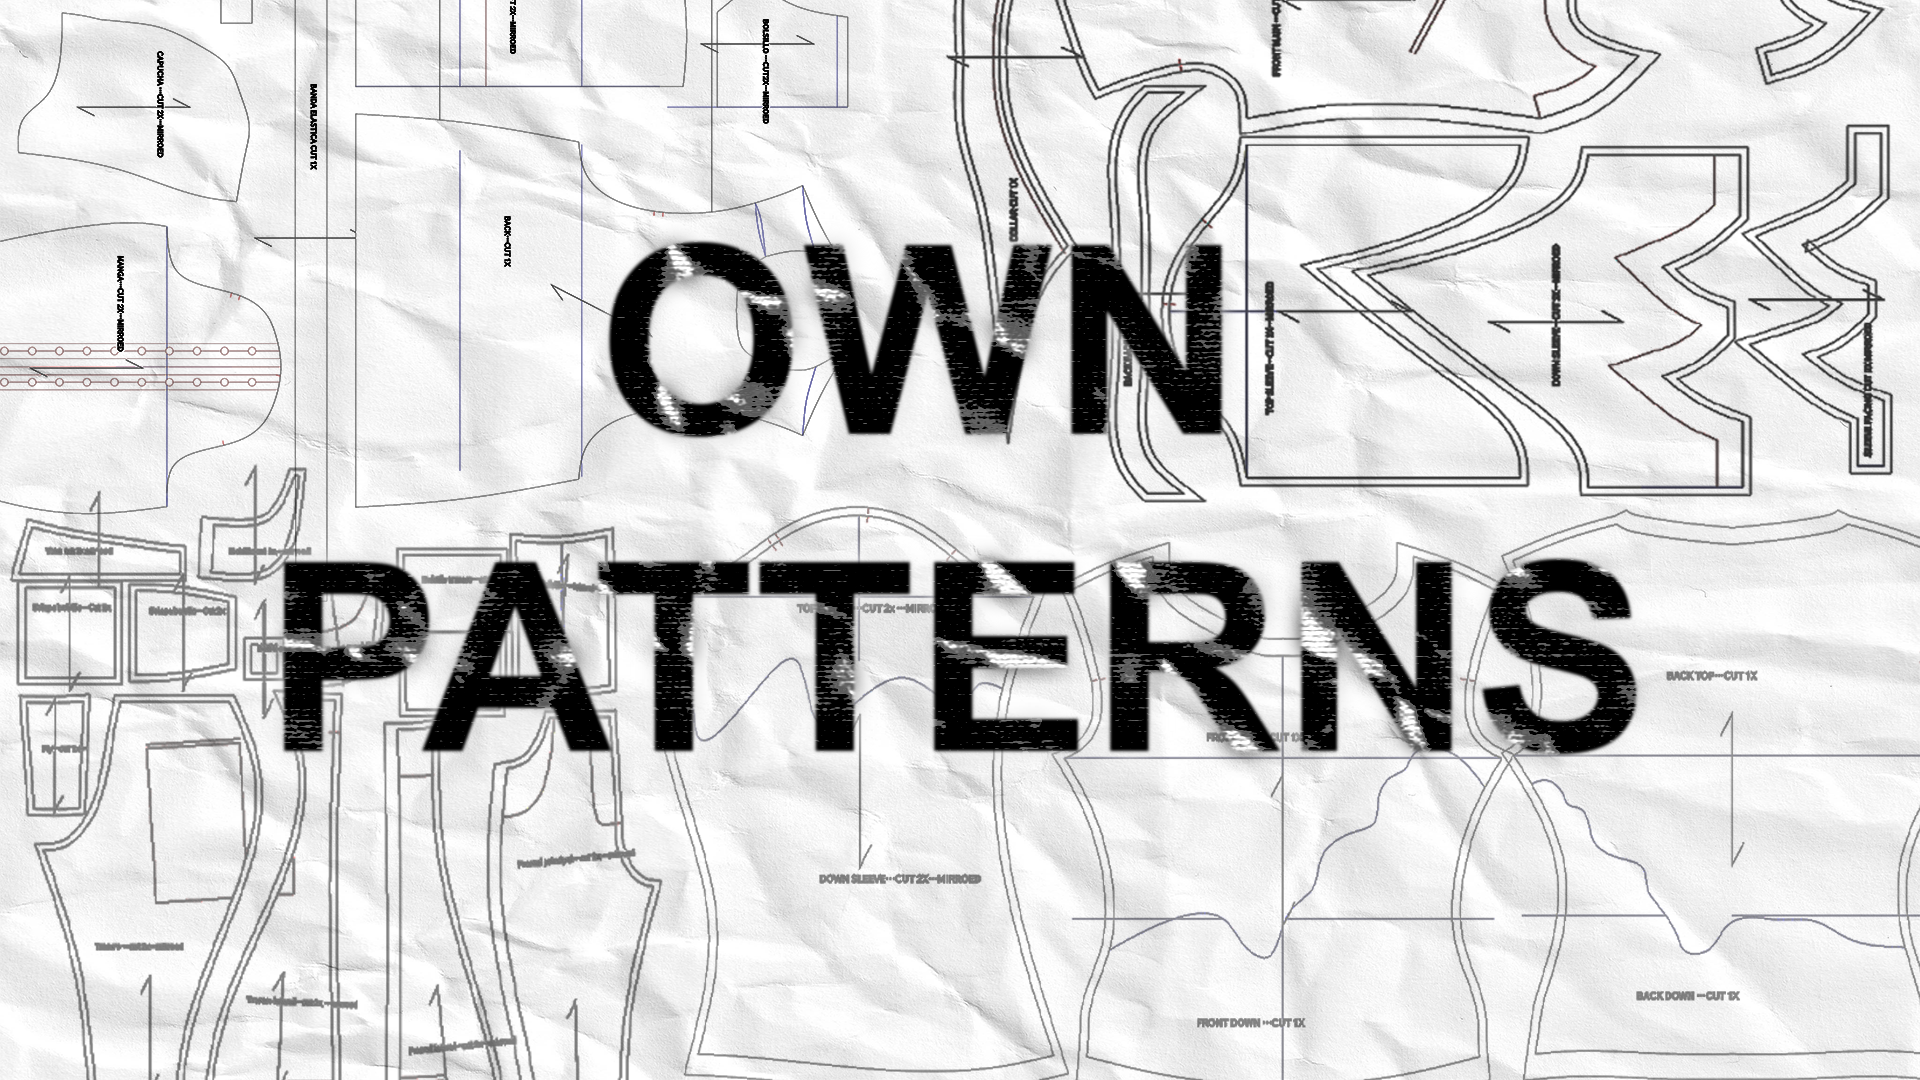
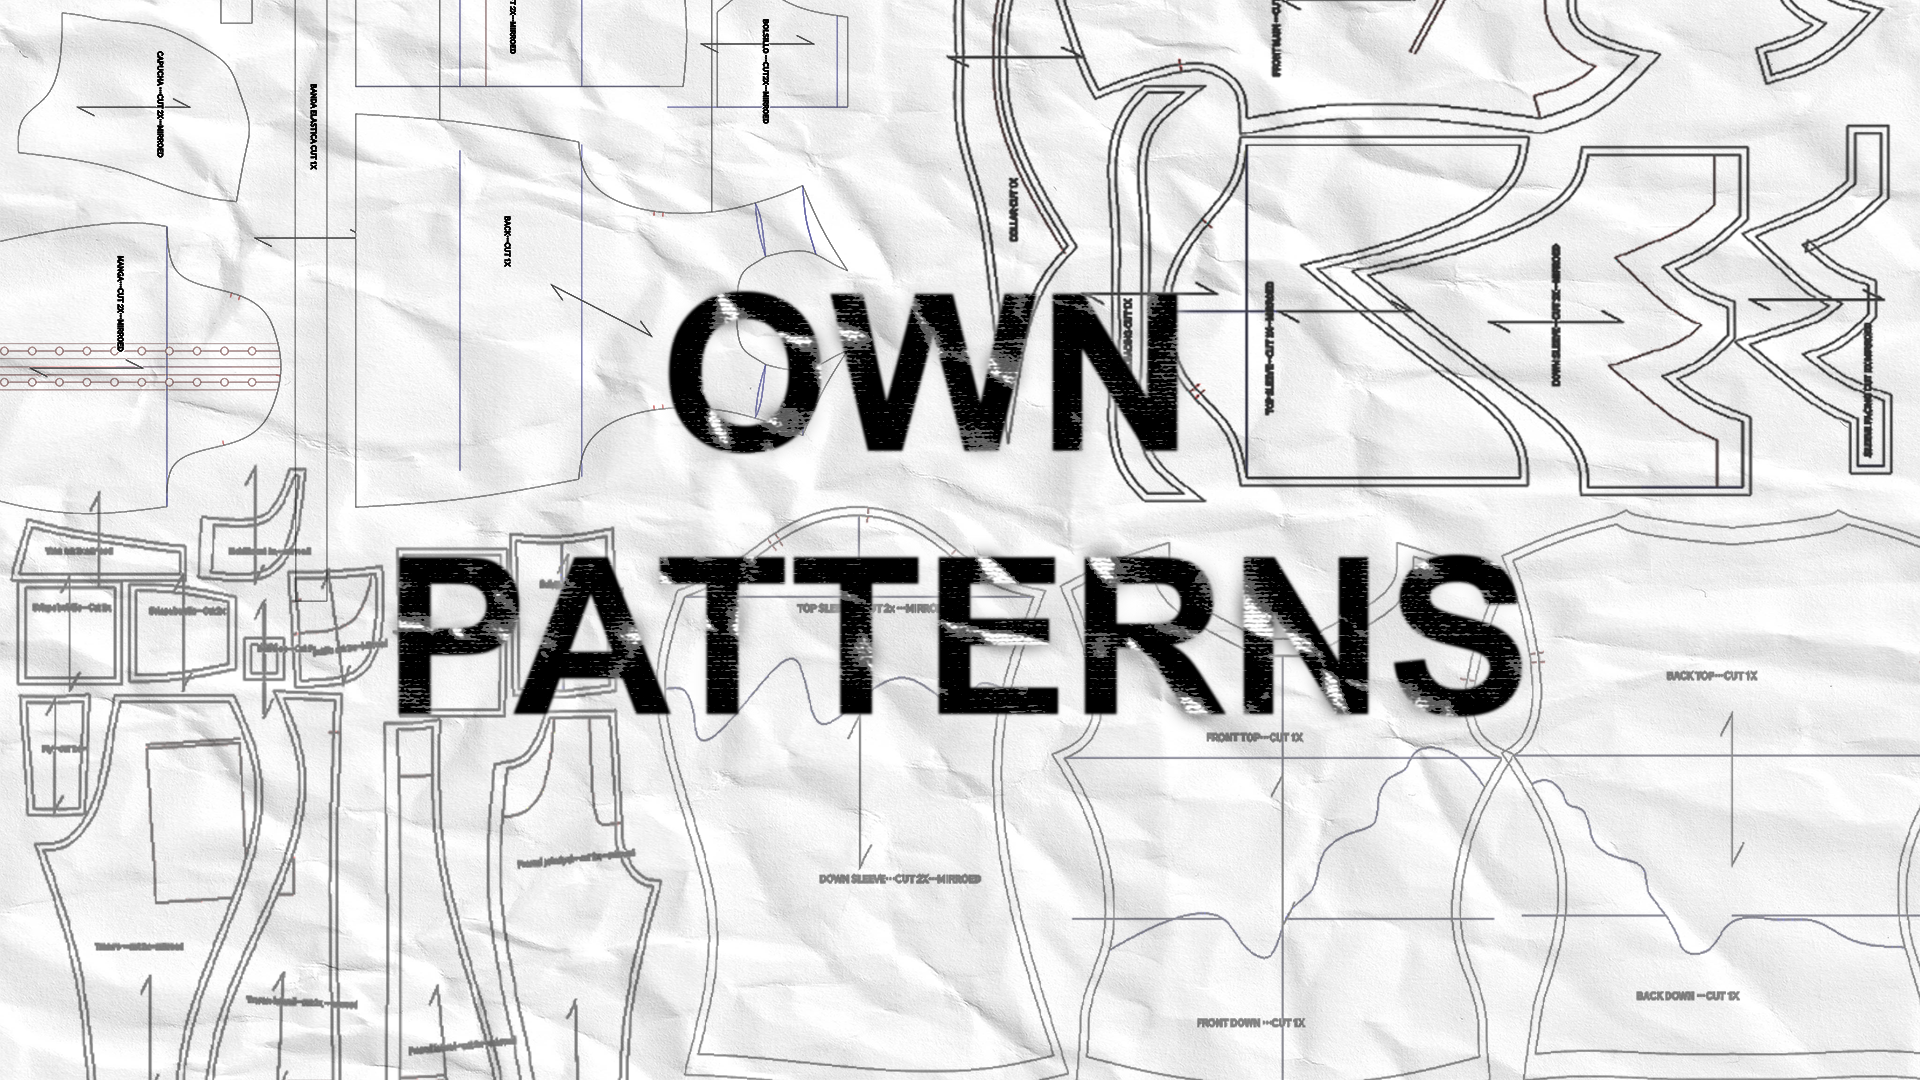
Quartz sync: Feb 17, 2026, 3:14 PM

Changed region(s): [[0.125, 0.4889, 0.875, 0.7028], [0.3125, 0.2139, 0.6562, 0.4278]]

diff --git a/content/5. Projects/Fashion.md b/content/5. Projects/Fashion.md
@@ -18,7 +18,7 @@ tags:
   </div>
 
   <div class="project-card">
-    <a href="Ghouljaboy" class="project-link">
+    <a href="Selected Patterns" class="project-link">
       <div class="project-image-wrapper">
         <img src="../media-content/PROYECTOS/Moda/Portfolio/Patrones.png" alt="Selected Patterns">
         <div class="project-overlay">